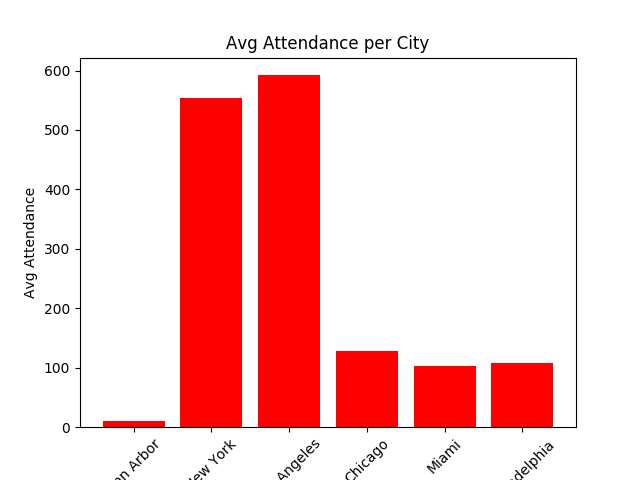
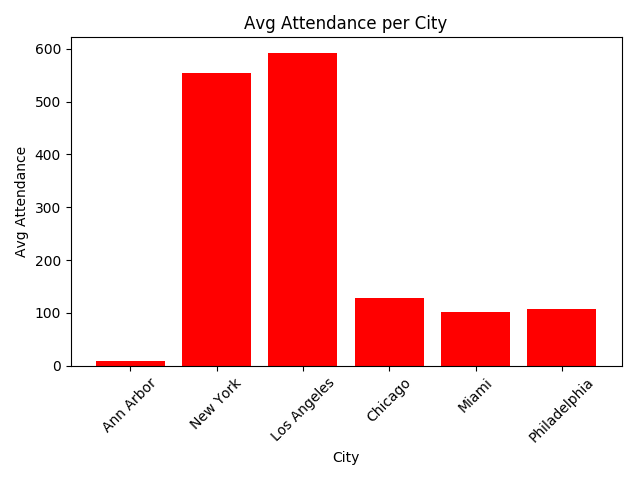
actually done

diff --git a/visualCreation.py b/visualCreation.py
@@ -48,6 +48,7 @@ def createAttendanceVisual():
     plt.ylabel('Avg Attendance')
     plt.xlabel('City')
     plt.title('Avg Attendance per City')
+    plt.tight_layout()
     plt.savefig('attendancePerCity.png')
     plt.show()
 
@@ -88,25 +89,26 @@ def createWordCountVisual():
     plt.ylabel('Average Word Count')
     plt.xlabel('Section Name')
     plt.title('Average Word Count Per Section')
+    plt.tight_layout()
     plt.savefig('avgwordcount.png')
     plt.show()
 
 
 # This function calls information from the table, Weather, specifically clouds column to calculate 
 # the frequencies of cloud statuses:
-	conn = sqlite3.connect('finalProj.sqlite')
-	cur = conn.cursor()
-
-	cur.execute('SELECT clouds FROM Weather')
-	descriptions = {}
-	for row in cur:
-		status = row[0]
-		if status not in descriptions:
-			descriptions[status] = 0
-		else:
-			descriptions[status] += 1
+    conn = sqlite3.connect('finalProj.sqlite')
+    cur = conn.cursor()
+    
+    cur.execute('SELECT clouds FROM Weather')
+    descriptions = {}
+    for row in cur:
+        status = row[0]
+        if status not in descriptions:
+            descriptions[status] = 0
+        else:
+            descriptions[status] += 1
 	
-	return sorted(list(descriptions.items()), key = lambda x: x[1], reverse = True)
+    return sorted(list(descriptions.items()), key = lambda x: x[1], reverse = True)
 
 # This function creates a bar chart that plots the cloud status  on the x axis and the frequency on the y axis
 def createCloudStatusVisual():
